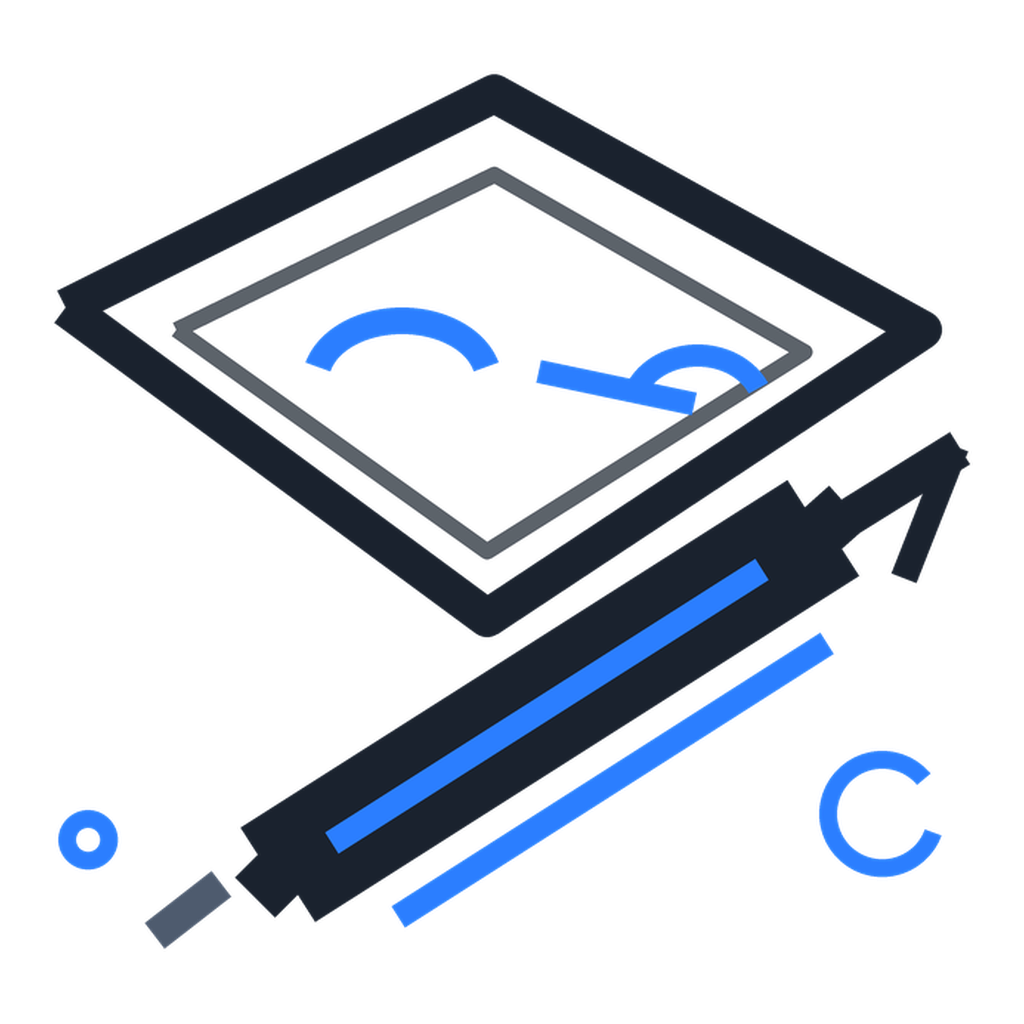
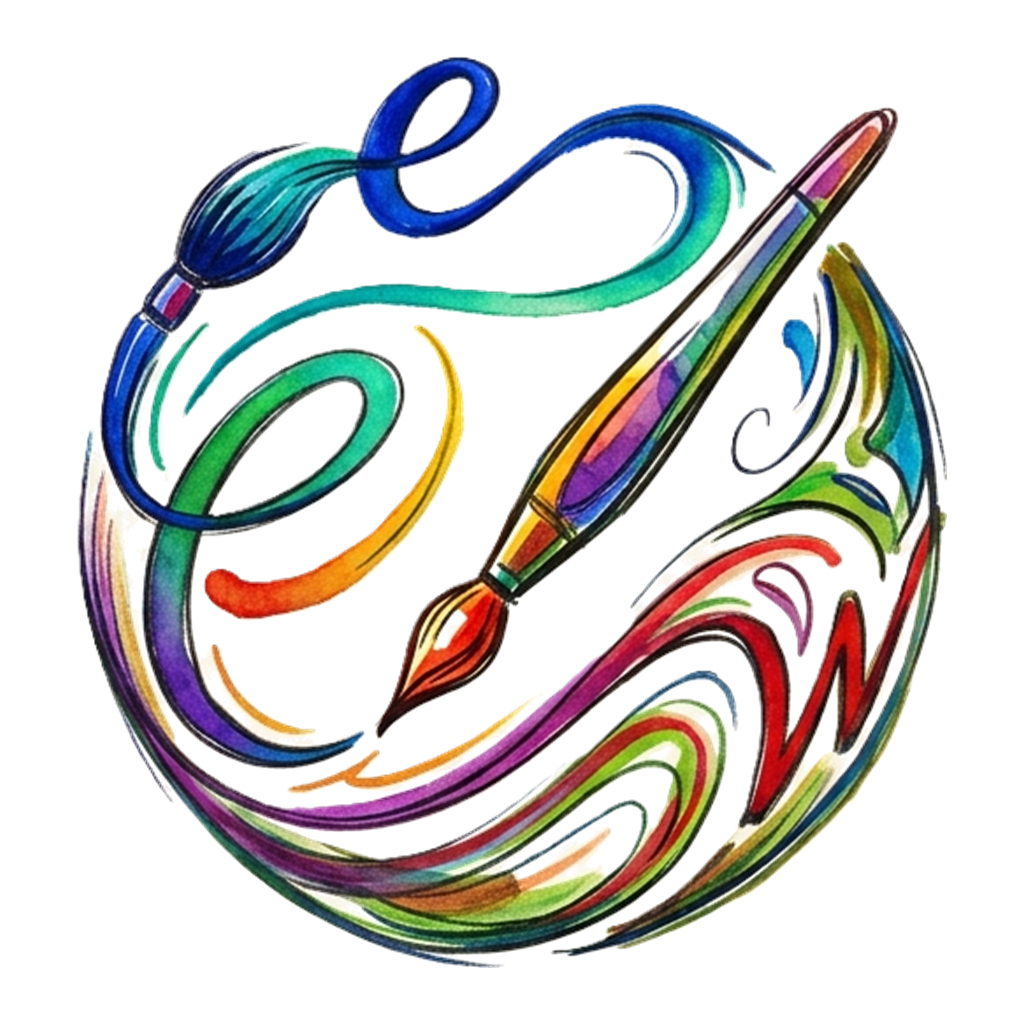
release: prepare v0.1.7

diff --git a/src/styles.css b/src/styles.css
@@ -246,7 +246,10 @@ input {
 }
 
 .tab-pane-zone .ant-tabs-card > .ant-tabs-nav .ant-tabs-tab {
-  border-color: #e1e6ef;
+  border-top: 0 !important;
+  border-right: 1px solid #e1e6ef;
+  border-bottom: 0 !important;
+  border-left: 0;
   border-radius: 0 !important;
   background: #f7f9fc;
   margin: 0 !important;
@@ -256,7 +259,7 @@ input {
 }
 
 .dark-mode .tab-pane-zone .ant-tabs-card > .ant-tabs-nav .ant-tabs-tab {
-  border-color: #2d3a4d;
+  border-right-color: #2d3a4d;
   background: #182230;
 }
 
@@ -269,13 +272,13 @@ input {
 }
 
 .tab-pane-zone .ant-tabs-card > .ant-tabs-nav .ant-tabs-tab-active {
-  border-color: #cfd9e8;
+  border-right-color: #cfd9e8;
   background: #fff;
   box-shadow: none;
 }
 
 .dark-mode .tab-pane-zone .ant-tabs-card > .ant-tabs-nav .ant-tabs-tab-active {
-  border-color: #3a8bff;
+  border-right-color: #3a8bff;
   background: #101722;
 }
 
@@ -480,6 +483,89 @@ input {
   text-shadow:
     0 4px 0 #172f52,
     0 12px 24px rgba(0, 0, 0, 0.34);
+}
+
+.author-inspiration-modal {
+  top: 0 !important;
+  max-width: 100vw;
+  padding-bottom: 0;
+}
+
+.author-inspiration-modal .ant-modal-content {
+  min-height: 100vh;
+  padding: 0;
+  border-radius: 0;
+  overflow: hidden;
+}
+
+.author-inspiration-modal .ant-modal-close {
+  top: 14px;
+  right: 14px;
+  z-index: 4;
+}
+
+.author-inspiration-modal .ant-modal-confirm-body-wrapper,
+.author-inspiration-modal .ant-modal-confirm-body,
+.author-inspiration-modal .ant-modal-confirm-content {
+  margin: 0 !important;
+  max-width: none;
+  display: block;
+}
+
+.author-inspiration-panel {
+  position: relative;
+  min-height: 100vh;
+  display: grid;
+  place-items: center;
+  padding: 56px 42px;
+  overflow: hidden;
+  background:
+    linear-gradient(90deg, rgba(22, 119, 255, 0.04) 1px, transparent 1px),
+    linear-gradient(rgba(22, 119, 255, 0.04) 1px, transparent 1px),
+    #fff;
+  background-size: 28px 28px;
+}
+
+.author-inspiration-panel::before {
+  content: "";
+  position: absolute;
+  inset: -42%;
+  background:
+    conic-gradient(
+      from 90deg,
+      rgba(22, 119, 255, 0.2),
+      rgba(19, 194, 194, 0.16),
+      rgba(250, 173, 20, 0.14),
+      rgba(235, 47, 150, 0.12),
+      rgba(82, 196, 26, 0.14),
+      rgba(22, 119, 255, 0.2)
+    );
+  filter: blur(60px);
+  opacity: 0.58;
+  transform-origin: center;
+  animation: empty-world-diffusion 16s ease-in-out infinite;
+}
+
+.author-inspiration-panel::after {
+  content: "";
+  position: absolute;
+  inset: 0;
+  background: radial-gradient(circle at center, rgba(255, 255, 255, 0.52), rgba(255, 255, 255, 0.08) 48%, rgba(255, 255, 255, 0.68));
+  pointer-events: none;
+}
+
+.author-inspiration-text {
+  position: relative;
+  z-index: 1;
+  max-width: 760px;
+  color: #111820;
+  font-family: "ZCOOL KuaiLe", "Ma Shan Zheng", "Comic Sans MS", "Microsoft YaHei", cursive;
+  font-size: 48px;
+  line-height: 1.34;
+  text-align: center;
+  text-shadow:
+    0 4px 0 #d7ebff,
+    0 12px 24px rgba(22, 119, 255, 0.16);
 }
 
 @keyframes empty-world-diffusion {
@@ -764,6 +850,12 @@ input {
 
 .image-preview-close:hover {
   background: rgba(255, 255, 255, 0.28);
+}
+
+.version-modal-content {
+  font-size: 16px;
+  font-weight: 700;
+  color: #111820;
 }
 
 .file-view {
@@ -1220,6 +1312,15 @@ input {
 
   .empty-world-title {
     font-size: 42px;
+  }
+
+  .author-inspiration-panel {
+    min-height: 100vh;
+    padding: 48px 22px;
+  }
+
+  .author-inspiration-text {
+    font-size: 34px;
   }
 
   .help-docs {

diff --git a/src/App.tsx b/src/App.tsx
@@ -257,6 +257,12 @@ const canvasThemes: CanvasTheme[] = [
 
 const releaseTimeline: Array<{ version: string; date: string; title: string; description: string; upcoming?: boolean }> = [
   {
+    version: "v0.1.7",
+    date: "2026.07.09",
+    title: "透明图标与作者全屏",
+    description: "更新透明背景的新 logo，作者寄语改为全屏展示，优化标签栏边框，并暂时移除文本对比插件。",
+  },
+  {
     version: "v0.1.6",
     date: "2026.07.08",
     title: "自动更新与全局快捷键",
@@ -820,14 +826,14 @@ function AppShell() {
   const [activeSearchResultId, setActiveSearchResultId] = useState<string | null>(null);
   const [imagePreview, setImagePreview] = useState<{ src: string; name: string } | null>(null);
   const [appInfo, setAppInfo] = useState<AppInfo>({
-    version: "0.1.6",
+    version: "0.1.7",
     author: "kunkun",
     desc: "认识自身平凡后，依旧拥有改变世界的勇气",
   });
   const [updateStatus, setUpdateStatus] = useState<UpdateStatus>({
     state: "idle",
     channel: "latest",
-    currentVersion: "0.1.6",
+    currentVersion: "0.1.7",
   });
   const lastCanvasPoint = useRef<Record<string, { x: number; y: number }>>({});
   const draggingRef = useRef<DragState | null>(null);
@@ -2395,6 +2401,14 @@ function AppShell() {
     },
   ];
 
+  const topRightCloseModal = {
+    footer: null,
+    closable: true,
+    closeIcon: <CloseOutlined />,
+    maskClosable: true,
+    icon: null as ReactNode,
+  };
+
   const helpMenu: MenuProps["items"] = [
     {
       key: "docs",
@@ -2402,9 +2416,9 @@ function AppShell() {
       icon: <BookOutlined />,
       onClick: () =>
         modal.info({
+          ...topRightCloseModal,
           title: "文档",
           width: 760,
-          okText: "关闭",
           content: <HelpDocumentation canvasPluginEnabled={canvasPluginEnabled} shortcuts={settings.shortcuts} />,
         }),
     },
@@ -2412,7 +2426,7 @@ function AppShell() {
       key: "version",
       label: "版本",
       icon: <InfoCircleOutlined />,
-      onClick: () => modal.info({ title: "版本", content: appInfo.version }),
+      onClick: () => modal.info({ ...topRightCloseModal, title: "版本", content: <div className="version-modal-content">{appInfo.version}</div> }),
     },
     {
       key: "updates",
@@ -2420,9 +2434,9 @@ function AppShell() {
       icon: <HistoryOutlined />,
       onClick: () =>
         modal.info({
+          ...topRightCloseModal,
           title: "版本更新",
           width: 680,
-          okText: "关闭",
           content: (
             <ol className="help-update-timeline">
               {releaseTimeline.map((release) => (
@@ -2446,7 +2460,23 @@ function AppShell() {
       key: "author",
       label: "作者",
       icon: <UserOutlined />,
-      onClick: () => modal.info({ title: "作者", content: `${appInfo.author}\n${appInfo.desc}` }),
+      onClick: () =>
+        modal.info({
+          ...topRightCloseModal,
+          title: null,
+          width: "100vw",
+          style: { top: 0, maxWidth: "100vw", paddingBottom: 0 },
+          className: "author-inspiration-modal",
+          content: (
+            <div className="author-inspiration-panel" aria-label="作者寄语">
+              <div className="author-inspiration-text">
+                希望你认识自身平凡之后，
+                <br />
+                依旧拥有改变世界的勇气
+              </div>
+            </div>
+          ),
+        }),
     },
   ];
 

diff --git a/site/index.html b/site/index.html
@@ -17,7 +17,7 @@
       <nav class="site-nav" aria-label="主要导航">
         <a href="./kaige-birthday.html">凯哥生日</a>
         <a href="#updates">更新记录</a>
-        <a class="download-link" href="https://github.com/lvkun996/super-note/releases/download/v0.1.6/Super.Note.Setup.0.1.6.exe">下载 Windows 版</a>
+        <a class="download-link" href="https://github.com/lvkun996/super-note/releases/download/v0.1.7/Super.Note.Setup.0.1.7.exe">下载 Windows 版</a>
       </nav>
     </header>
 
@@ -28,8 +28,8 @@
           <h1 id="hero-title">Super Note</h1>
           <p>多栏画板、独立视图和全局搜索，让信息整理保持直接。</p>
           <div class="download-actions" aria-label="Windows 下载">
-            <a class="primary-link" href="https://github.com/lvkun996/super-note/releases/download/v0.1.6/Super.Note.Setup.0.1.6.exe">Windows 10 / 11</a>
-            <a class="secondary-link" href="https://github.com/lvkun996/super-note/releases/download/v0.1.6/Super.Note.Setup.0.1.6.Win7-8.exe">Windows 7 / 8</a>
+            <a class="primary-link" href="https://github.com/lvkun996/super-note/releases/download/v0.1.7/Super.Note.Setup.0.1.7.exe">Windows 10 / 11</a>
+            <a class="secondary-link" href="https://github.com/lvkun996/super-note/releases/download/v0.1.7/Super.Note.Setup.0.1.7.Win7-8.exe">Windows 7 / 8</a>
           </div>
         </div>
       </section>
@@ -70,6 +70,17 @@
           <p>简洁记录 Super Note 的功能变化与体验改进。</p>
         </div>
         <ol class="update-timeline">
+          <li class="update-item">
+            <div class="update-marker" aria-hidden="true"></div>
+            <article>
+              <div class="update-meta">
+                <strong>v0.1.7</strong>
+                <time datetime="2026-07-09">2026.07.09</time>
+              </div>
+              <h3>透明图标与作者全屏</h3>
+              <p>更新透明背景的新 logo，作者寄语改为全屏展示，优化标签栏边框，并暂时移除文本对比插件。</p>
+            </article>
+          </li>
           <li class="update-item">
             <div class="update-marker" aria-hidden="true"></div>
             <article>